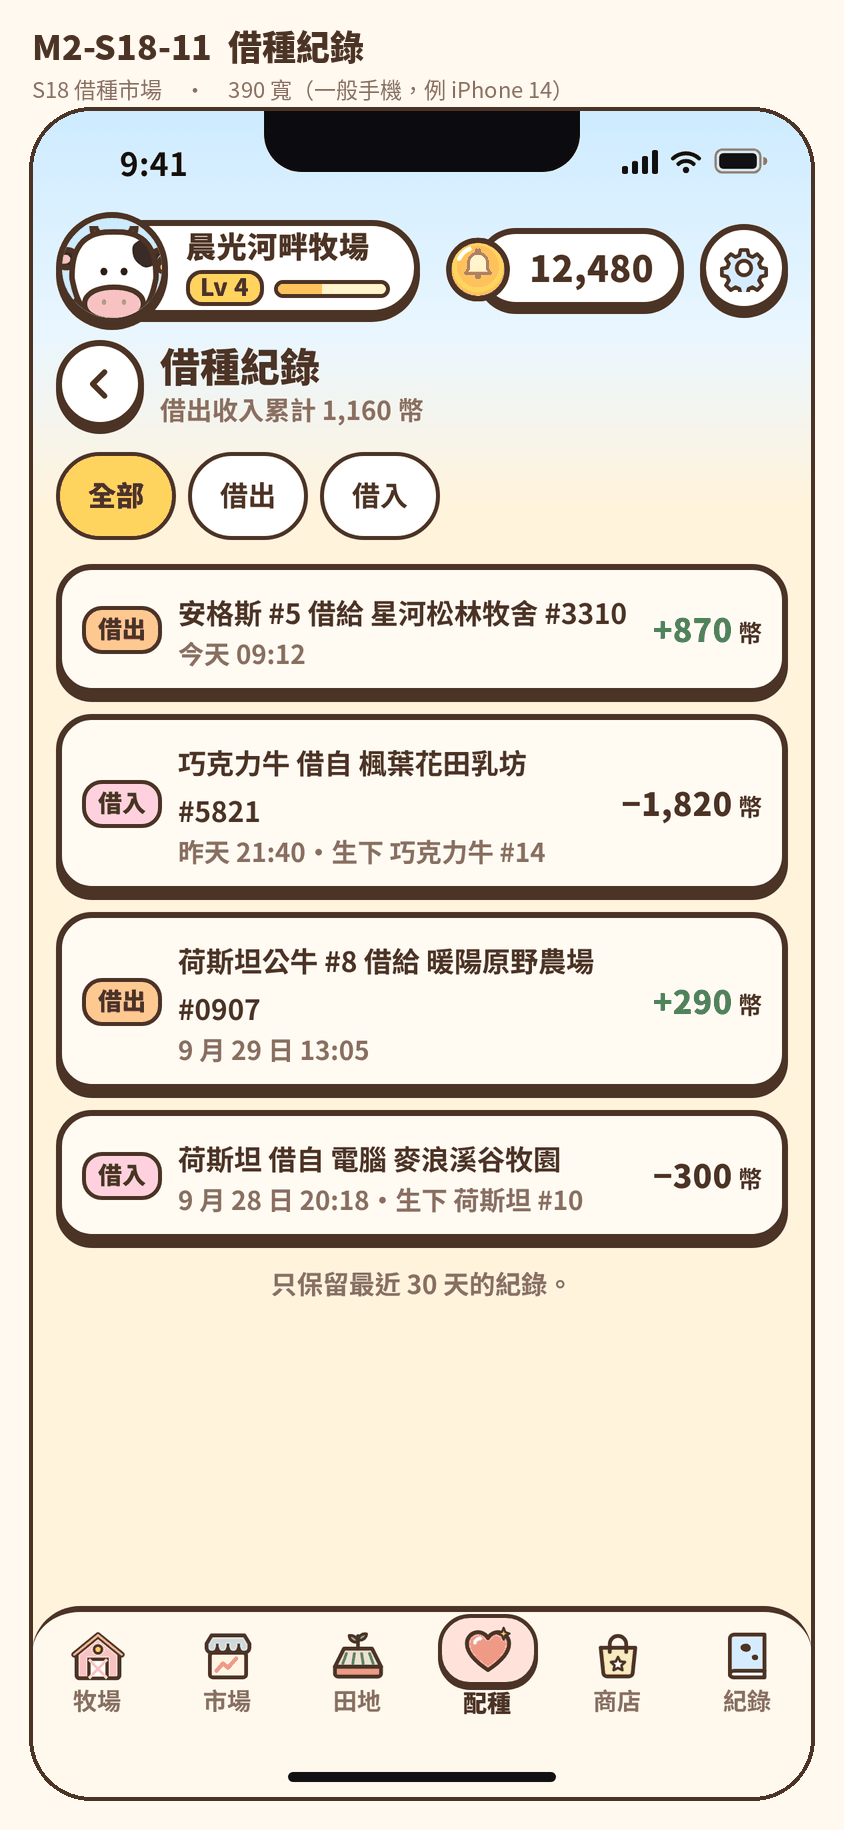
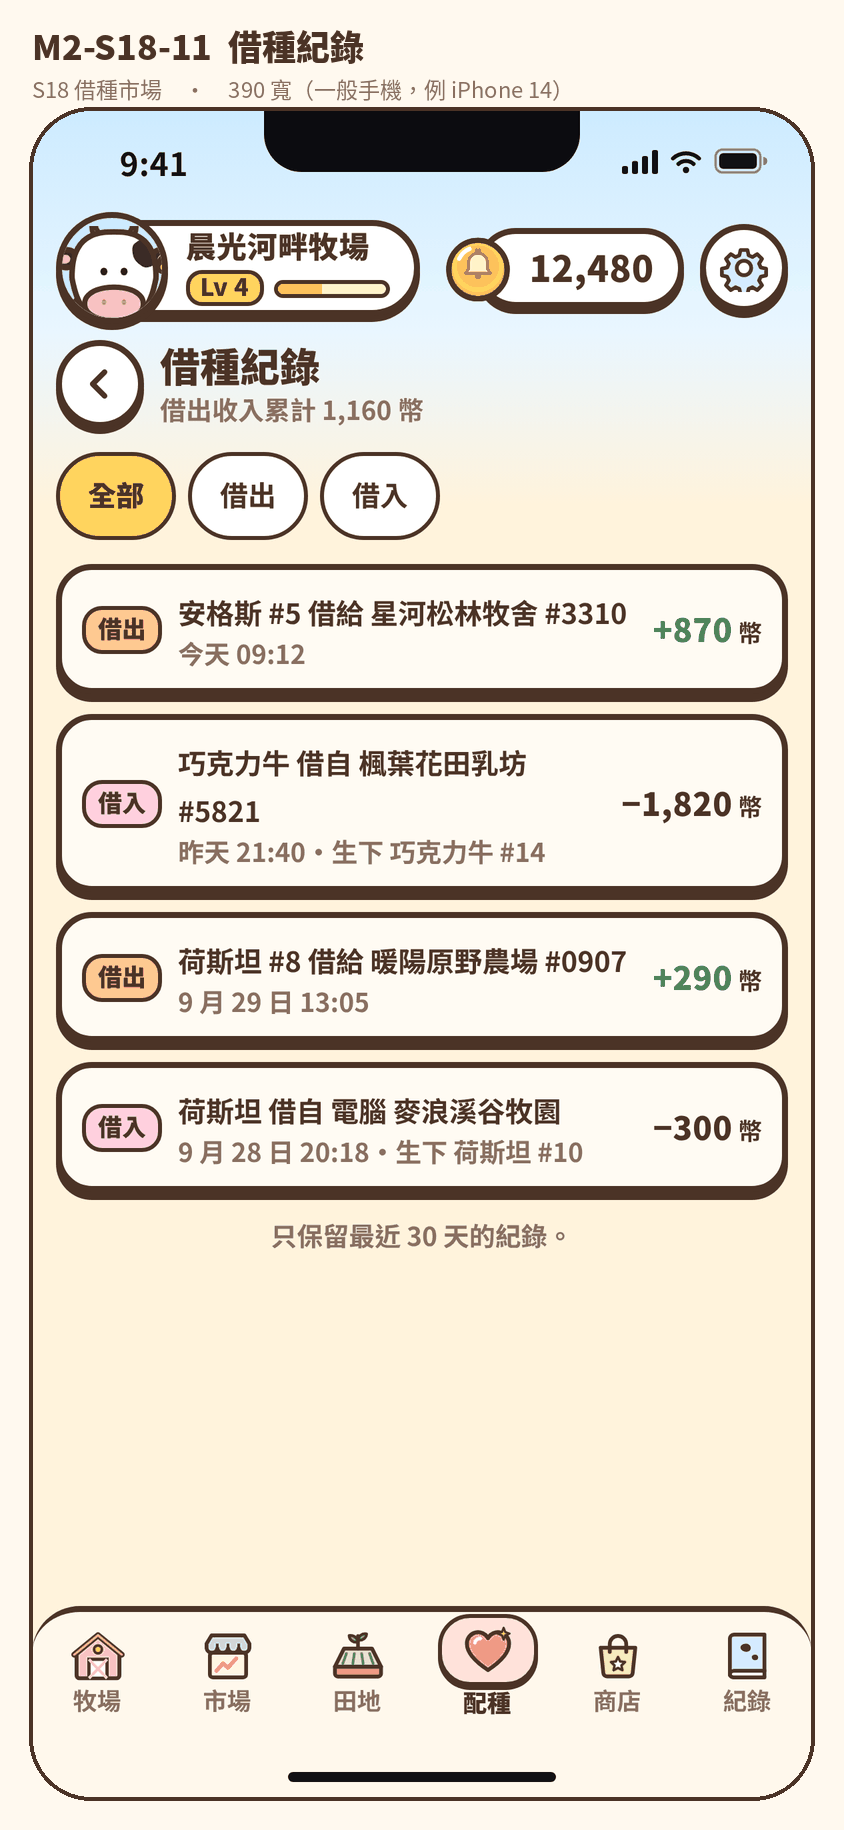
借種紀錄的牛名不加「公牛」；機率卡「小牛長大」照可能生出的稀有度算 (#101)
* 借種紀錄的牛名不加「公牛」（刪 s18.bullName）；機率卡「小牛長大」照可能生出的稀有度算（S18-06 是 1–8 小時）；scope.md S18 補這兩條（ceo 2026-10-02）

* 三步走第 2 步（cow-app）：重產 strings.g.dart（刪 s18.bullName，664 個 key）

---------

Changed region(s): [[0.0616, 0.4984, 0.955, 0.7164]]

diff --git a/app/lib/l10n/gen/strings.g.dart b/app/lib/l10n/gen/strings.g.dart
@@ -122,7 +122,6 @@ const Map<String, List<String>> kPlaceholders = {
   's18.borrowedFrom': ['cow', 'ranch'],
   's18.calfBorn': ['cow'],
   's18.logKeep': ['n'],
-  's18.bullName': ['breed'],
   'g.growsIn': ['time'],
   'fieldName': ['n'],
   's17.leftover': ['kg'],
@@ -579,7 +578,6 @@ const Map<String, String> _zhHant = {
   's18.logEmpty': '還沒有借種紀錄',
   's18.logEmptyOut': '還沒有借出的紀錄',
   's18.logEmptyIn': '還沒有借入的紀錄',
-  's18.bullName': '{breed}公牛',
   'g.growsIn': '{time}後長大',
   'fieldName': '第 {n} 塊田',
   's17.leftover': '牛叫回來了，田裡還有 {kg} 公斤稻米，收成時一起收。',
@@ -1247,7 +1245,6 @@ const Map<String, String> _en = {
   's18.logEmpty': 'No stud history yet',
   's18.logEmptyOut': 'Nothing lent yet',
   's18.logEmptyIn': 'Nothing borrowed yet',
-  's18.bullName': '{breed} bull',
   's18.deletedRanch': 'Deleted ranch',
   'g.growsIn': 'Grows up in {time}',
   'fieldName': 'Field {n}',
@@ -1915,7 +1912,6 @@ const Map<String, String> _th = {
   's18.logEmpty': 'ยังไม่มีประวัติการยืม',
   's18.logEmptyOut': 'ยังไม่มีประวัติการให้ยืม',
   's18.logEmptyIn': 'ยังไม่มีประวัติการยืมมา',
-  's18.bullName': '{breed} ตัวผู้',
   's18.deletedRanch': 'ฟาร์มที่ถูกลบแล้ว',
   'g.growsIn': 'จะโตในอีก {time}',
   'fieldName': 'แปลงที่ {n}',
@@ -3412,9 +3408,6 @@ abstract class GeneratedStrings {
 
   /// `s18.logEmptyIn`：還沒有借入的紀錄
   String get s18LogEmptyIn => table['s18.logEmptyIn']!;
-
-  /// `s18.bullName`：{breed}公牛
-  String s18BullName({required Object breed}) => fill('s18.bullName', {'breed': breed});
 
   /// `g.growsIn`：{time}後長大
   String gGrowsIn({required Object time}) => fill('g.growsIn', {'time': time});

diff --git a/design/m2/src/js/fixtures.js b/design/m2/src/js/fixtures.js
@@ -146,7 +146,7 @@ export const STUD_INCOME = 1160;
 export const STUD_LOG = [
   { dir: 'out', when: { day: 'today', time: '09:12' }, who: '星河松林牧舍 #3310', cow: { breed: 'angus', id: 5 }, price: 870 },
   { dir: 'in', when: { day: 'yesterday', time: '21:40' }, who: '楓葉花田乳坊 #5821', cow: { breed: 'chocolate' }, price: 1820, calf: { breed: 'chocolate', id: 14 } },
-  { dir: 'out', when: { m: 9, d: 29, time: '13:05' }, who: '暖陽原野農場 #0907', cow: { breed: 'holstein', id: 8, bull: true }, price: 290 },
+  { dir: 'out', when: { m: 9, d: 29, time: '13:05' }, who: '暖陽原野農場 #0907', cow: { breed: 'holstein', id: 8 }, price: 290 },
   { dir: 'in', when: { m: 9, d: 28, time: '20:18' }, who: '麥浪溪谷牧園', bot: true, cow: { breed: 'holstein' }, price: 300, calf: { breed: 'holstein', id: 10 } },
 ];
 // 名字最長（量測用；D23：中文最多 8 個字、英文字母最多 16 個）

diff --git a/design/m2/measure/summary-th.md b/design/m2/measure/summary-th.md
@@ -190,7 +190,6 @@
 | วัวตัวผู้ตัวนี้เพิ่งถูกคนอื่นยืมไป หรือเจ้าของถอนประกาศแล้ว⏎ไม่มีการหักเงิน | วัว \| ตัวผู้ \| ตัว \| นี้ \| เพิ่ง \| ถูก \| คน \| อื่น \| ยืม \| ไป \|   \| หรือ \| เจ้าของ \| ถอน \| ประกาศ \| แล้ว \| ไม่มี \| การ \| หัก \| เงิน |
 | ยืม วัวช็อกโกแลต จาก 楓葉花田乳坊 ⏎#5821 | ยืม \|   \| วัว \| ช็อกโกแลต \|   \| จาก \|   \| 楓葉 \| 花田 \| 乳 \| 坊 \|   \| # \| 5821 |
 | เมื่อวาน 21:40 · เกิดลูกวัว วัว⏎ช็อกโกแลต #14 | เมื่อ \| วาน \|   \| 21 \| : \| 40 \|   \| · \|   \| เกิด \| ลูกวัว \|   \| วัว \| ช็อกโกแลต \|   \| # \| 14 |
-| ให้ 暖陽原野農場 #0907 ยืม โฮลสไตน์ ⏎ตัวผู้ #8 | ให้ \|   \| 暖 \| 陽 \| 原野 \| 農場 \|   \| # \| 0907 \|   \| ยืม \|   \| โฮลสไตน์ \|   \| ตัวผู้ \|   \| # \| 8 |
 | วัวตัวผู้ตัวนี้โตขึ้น ค่าพ่อพันธุ์เปลี่ยนจาก 1,050 เป็น 1,090 ⏎เหรียญ⏎จะยืมในราคาใหม่ไหม? | วัว \| ตัวผู้ \| ตัว \| นี้ \| โต \| ขึ้น \|   \| ค่า \| พ่อ \| พันธุ์ \| เปลี่ยน \| จาก \|   \| 1,050 \|   \| เป็น \|   \| 1,090 \|   \| เหรียญ \| จะ \| ยืม \| ใน \| ราคา \| ใหม่ \| ไหม \| ? |
 | เลือกได้แค่เกรด ส่วนประเภท เพศ และความหายากจะสุ่ม โดยเปิดเผย⏎โอกาสทั้งหมด วัวที่ได้จะเป็นลูกวัว | เลือก \| ได้ \| แค่ \| เกรด \|   \| ส่วน \| ประเภท \|   \| เพศ \|   \| และ \| ความ \| หา \| ยาก \| จะ \| สุ่ม \|   \| โดย \| เปิด \| เผย \| โอกาส \| ทั้งหมด \|   \| วัว \| ที่ \| ได้ \| จะ \| เป็น \| ลูกวัว |
 | เกรด C ขายได้ราคา ×0.75 คราวหน้าเลี้ยงให้ถึงน้ำหนักที่ดีที่สุด⏎ก่อนส่งขาย จะมีโอกาสได้เกรด A มากขึ้น | เกรด \|   \| C \|   \| ขาย \| ได้ \| ราคา \|   \| × \| 0.75 \|   \| คราว \| หน้า \| เลี้ยง \| ให้ \| ถึง \| น้ำ \| หนัก \| ที่ \| ดี \| ที่สุด \| ก่อน \| ส่ง \| ขาย \|   \| จะ \| มี \| โอกาส \| ได้ \| เกรด \|   \| A \|   \| มาก \| ขึ้น |
@@ -221,9 +220,10 @@
 | เรียกวัวกลับแล้ว ในแปลงยังมีข้าว 20.4 กก. จะเก็บเกี่ยวไป⏎พร้อมกัน | เรียก \| วัว \| กลับ \| แล้ว \|   \| ใน \| แปลง \| ยัง \| มี \| ข้าว \|   \| 20.4 \|   \| กก \| . \|   \| จะ \| เก็บ \| เกี่ยว \| ไป \| พร้อม \| กัน |
 | เลือกวัวตัวผู้ที่จะยืมก่อน แล้วค่อยเลือกวัวตัวเมียของ⏎ตัวเอง | เลือก \| วัว \| ตัวผู้ \| ที่ \| จะ \| ยืม \| ก่อน \|   \| แล้ว \| ค่อย \| เลือก \| วัว \| ตัว \| เมีย \| ของ \| ตัว \| เอง |
 | ให้ 星河松林牧舍 #3310 ยืม ⏎แองกัส #5 | ให้ \|   \| 星河 \| 松林 \| 牧 \| 舍 \|   \| # \| 3310 \|   \| ยืม \|   \| แองกัส \|   \| # \| 5 |
+| ให้ 暖陽原野農場 #0907 ยืม ⏎โฮลสไตน์ #8 | ให้ \|   \| 暖 \| 陽 \| 原野 \| 農場 \|   \| # \| 0907 \|   \| ยืม \|   \| โฮลสไตน์ \|   \| # \| 8 |
 | ยืม โฮลสไตน์ จาก บอท 麥浪溪谷⏎牧園 | ยืม \|   \| โฮลสไตน์ \|   \| จาก \|   \| บอท \|   \| 麥浪 \| 溪谷 \| 牧園 |
 | 28/9 20:18 · เกิดลูกวัว โฮลสไตน์ ⏎#10 | 28 \| / \| 9 \|   \| 20 \| : \| 18 \|   \| · \|   \| เกิด \| ลูกวัว \|   \| โฮลสไตน์ \|   \| # \| 10 |
-| ให้ ฟาร์มที่ถูกลบแล้ว ยืม เจอร์ซีย์ ⏎ตัวผู้ #9 | ให้ \|   \| ฟาร์ม \| ที่ \| ถูก \| ลบ \| แล้ว \|   \| ยืม \|   \| เจอร์ซีย์ \|   \| ตัวผู้ \|   \| # \| 9 |
+| ให้ ฟาร์มที่ถูกลบแล้ว ยืม เจอร์ซีย์ ⏎#9 | ให้ \|   \| ฟาร์ม \| ที่ \| ถูก \| ลบ \| แล้ว \|   \| ยืม \|   \| เจอร์ซีย์ \|   \| # \| 9 |
 | ยืม ชาโรเลส์ จาก ฟาร์มที่ถูกลบ⏎แล้ว | ยืม \|   \| ชาโรเลส์ \|   \| จาก \|   \| ฟาร์ม \| ที่ \| ถูก \| ลบ \| แล้ว |
 | 26/9 07:45 · เกิดลูกวัว ชาโรเลส์ ⏎#7 | 26 \| / \| 9 \|   \| 07 \| : \| 45 \|   \| · \|   \| เกิด \| ลูกวัว \|   \| ชาโรเลส์ \|   \| # \| 7 |
 | ราคาถูก ส่วนใหญ่เป็นวัว⏎ธรรมดา | ราคา \| ถูก \|   \| ส่วน \| ใหญ่ \| เป็น \| วัว \| ธรรมดา |

diff --git a/design/m2/scope.md b/design/m2/scope.md
@@ -410,6 +410,8 @@
 | S18-15 | 借種紀錄是空的：全部「還沒有借種紀錄」、按借出「還沒有借出的紀錄」、按借入「還沒有借入的紀錄」（樣子跟 S18-05 的空狀態一樣） | 局部 | `entries` 是空的，或篩選後沒有（缺口清單 2-2） | 新（`s18.logEmpty`、`s18.logEmptyOut`、`s18.logEmptyIn`，使用者 2026-10-02 核准，D31） | 無 |
 - D26（使用者 2026-10-01：「s04 上架借種價格我們幫用戶算好(理論上越稀有的牛就越貴，越大的也是)」，選「看體重公斤數」）：借種費＝公牛現在的體重 × 每公斤價格（一般 1.1、優良 2.75、稀有 6.6、傳說 16.5 幣），四捨五入到 10 幣；跟著公牛長大自動漲。主人只決定要不要上架，不再選價位。數字暫定，M3 重跑模擬後定案。
 - 借種紀錄（S18-11）：對方的牧場名是很長、中間沒有空白的英文字時，放不下就在任何字母之間換行，不蓋到右邊的金額（英文、泰文窄手機；繁中不會變。ceo 2026-10-02，缺口清單 5-1）。
+- 借種紀錄的牛名一律只寫品種＋編號（借入的沒有編號），跟其他畫面一樣，不加「公牛」：紀錄裡的一定是公牛，而且「…牛」結尾的品種會變成「巧克力牛公牛」（ceo 2026-10-02）。
+- 機率卡下面的「小牛長大」照這張卡可能生出的稀有度算：一般 1、優良 2、稀有 4、傳說 8 小時（協定 2.3 的 `economy.calf_grow_h`），取最短到最長，例「1–8 小時」；一樣長就只寫一個數字，例「1 小時」（ceo 2026-10-02；S08 配種也一樣）。
 
 ### S19 商店等級抽牛
 
